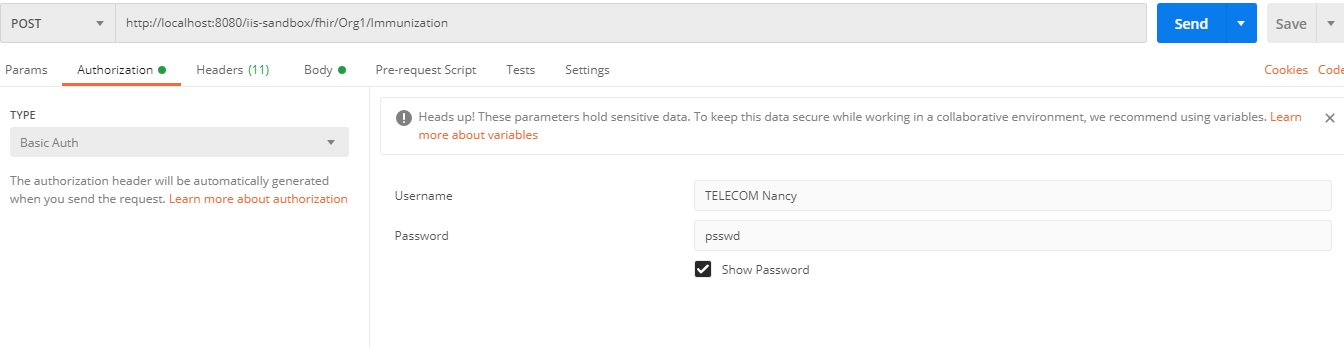
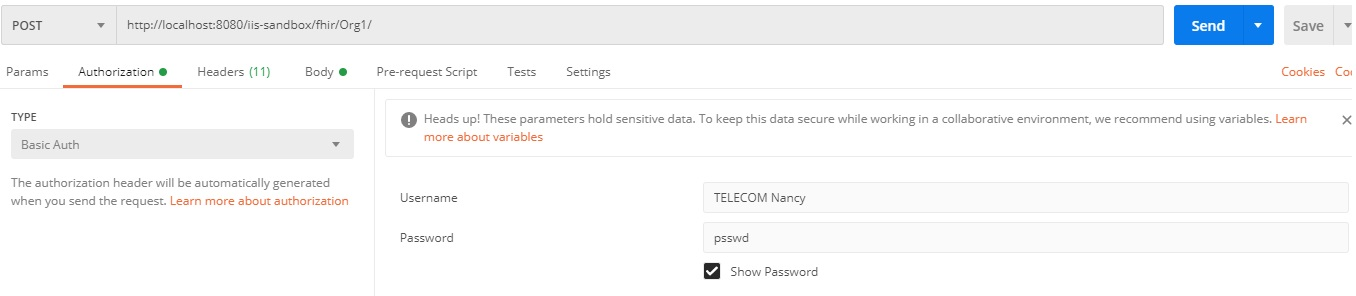
updating walkthrough

diff --git a/src/main/demo/Walkthrough.md b/src/main/demo/Walkthrough.md
@@ -13,6 +13,8 @@ The server uses a tenant id specified in the Url as in
    
 along with a http basic authentication password
 
+![alt text](https://github.com/immregistries/IIS-Sandbox/blob/PI/src/main/demo/pictures/Authentification.jpg?raw=true)
+
 As an example, if you are using __POSTMAN__, the "AUTHORIZATION" section with type "BASIC AUTH" needs to be filled.
 
 ### Creating a new user
@@ -21,7 +23,12 @@ Introducing a new tenant id in a request, along with a http basic authentication
 
 ## Requests
 
+If you want to send xml or json data, you will need to add them in a Body tab. In Postman, it is presented as follow :
+
+![alt text](https://github.com/immregistries/IIS-Sandbox/blob/PI/src/main/demo/pictures/Body.jpg?raw=true)
+
 ### Basic requests with patient resources
+
 You can use examplePatient.xml if you don't have any other example :
 ```xml
 <?xml version="1.0" encoding="UTF-8"?>
